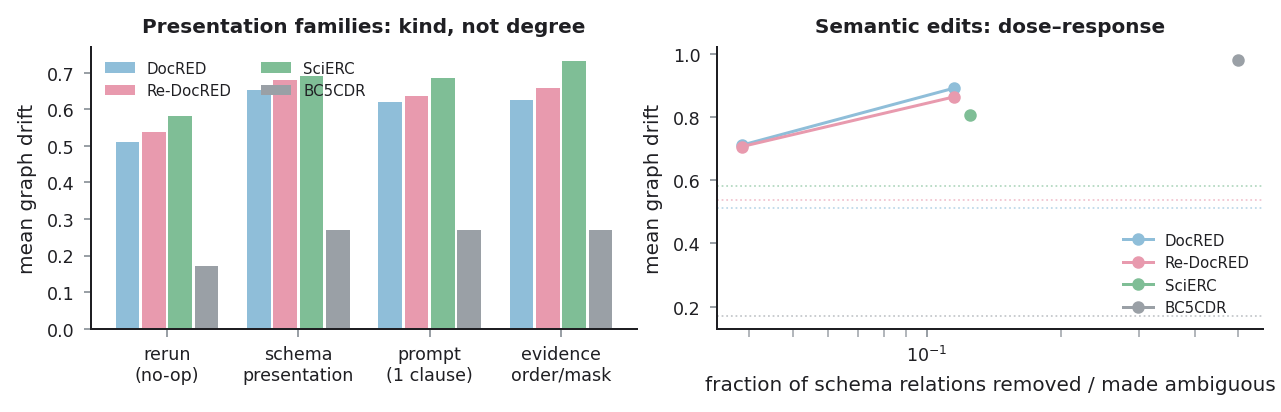
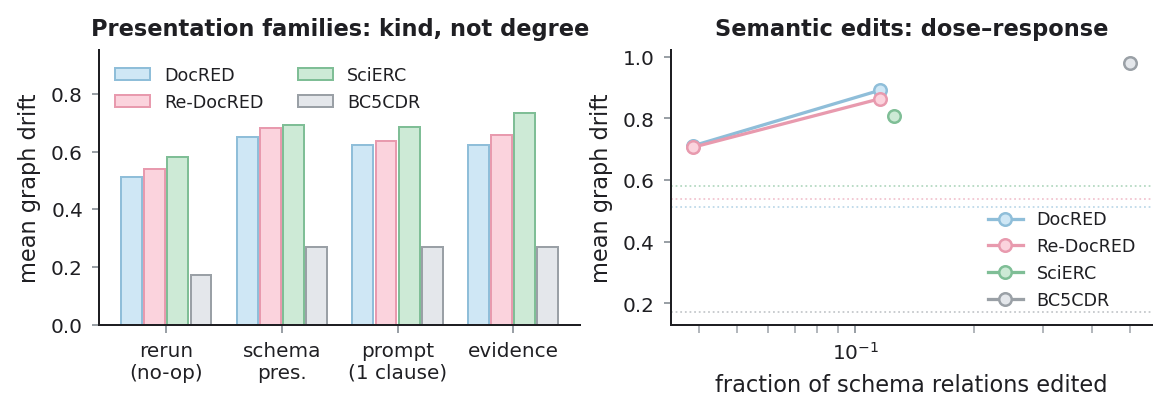
Restyle revision figures to match paper palette; fix overlaps and small fonts

diff --git a/scripts/make_extqueries_figure.py b/scripts/make_extqueries_figure.py
@@ -44,37 +44,39 @@ def main() -> int:
     labels = [l for _, l in RUNS]
     x = np.arange(len(labels))
 
-    _S.apply_rc(font_size=8)
-    fig, (ax1, ax2) = plt.subplots(2, 1, figsize=(3.4, 3.4),
-                                   gridspec_kw={"hspace": 0.52})
+    _S.apply_rc(font_size=9)
+    fig, (ax1, ax2) = plt.subplots(2, 1, figsize=(3.6, 3.6),
+                                   gridspec_kw={"hspace": 0.55})
 
     # ---- (a) amplification ------------------------------------------------
     w = 0.26
-    specs = [("Q_path", r"$Q_5$ path", _S.BLUE_DARK),
-             ("Q_deg", r"$Q_6$ agg", _S.PINK_DARK),
-             ("Q_rag", r"$Q_7$ RAG", _S.GREEN_DARK)]
-    for i, (key, lab, color) in enumerate(specs):
+    specs = [("Q_path", r"$Q_5$ path", _S.BLUE, _S.BLUE_DARK),
+             ("Q_deg", r"$Q_6$ agg", _S.PINK, _S.PINK_DARK),
+             ("Q_rag", r"$Q_7$ RAG", _S.GREEN, _S.GREEN_DARK)]
+    for i, (key, lab, fill, color) in enumerate(specs):
         vals = [ext[l][key]["amp_mean"] for l in labels]
-        bars = ax1.bar(x + (i - 1) * w, vals, width=w * 0.92, color=color, label=lab)
+        bars = ax1.bar(x + (i - 1) * w, vals, width=w * 0.92, color=fill,
+                       edgecolor=color, linewidth=0.8, label=lab)
         if key == "Q_path":
             err = np.array([[ext[l][key]["amp_mean"] - ext[l][key]["amp_ci_lo"],
                              ext[l][key]["amp_ci_hi"] - ext[l][key]["amp_mean"]]
                             for l in labels]).T
             ax1.errorbar(x + (i - 1) * w, vals, yerr=err, fmt="none",
                          ecolor=_S.BLACK, elinewidth=0.7, capsize=1.5)
-        _S.annotate_bars(ax1, bars, vals, fmt="{:.2f}", fontsize=5.5)
+        _S.annotate_bars(ax1, bars, vals, fmt="{:.2f}", fontsize=6)
     ax1.axhline(1.0, color=_S.GRAY, linestyle="--", linewidth=0.8)
     ax1.set_xticks(x); ax1.set_xticklabels(labels)
     ax1.set_ylabel(r"$\overline{\mathrm{Amp}}(Q)$")
     ax1.set_ylim(0, 1.55)
-    ax1.legend(fontsize=6, ncol=3, frameon=False, loc="upper left",
+    ax1.legend(fontsize=7, ncol=3, frameon=False, loc="upper left",
                handlelength=1.0, columnspacing=0.9)
-    ax1.set_title("(a) Extended-template amplification", fontsize=8)
+    ax1.set_title("(a) Extended-template amplification", fontsize=9, fontweight="bold")
     _S.despine(ax1)
 
     # ---- (b) regime dumbbells --------------------------------------------
     off = {"local": -0.16, "multihop": 0.16}
     color = {"local": _S.BLUE_DARK, "multihop": _S.PINK_DARK}
+    fill = {"local": _S.BLUE, "multihop": _S.PINK}
     for regime in ("local", "multihop"):
         gx, gy, qy = [], [], []
         for i, l in enumerate(labels):
@@ -84,17 +86,18 @@ def main() -> int:
             qy.append(s["query_aware"]["f1"])
         for xi, g, q in zip(gx, gy, qy):
             ax2.plot([xi, xi], [g, q], color=color[regime], linewidth=1.1, zorder=1)
-        ax2.scatter(gx, gy, s=14, facecolor="white", edgecolor=color[regime],
-                    linewidth=1.1, zorder=2,
+        ax2.scatter(gx, gy, s=18, facecolor="white", edgecolor=color[regime],
+                    linewidth=1.2, zorder=2,
                     label=f"{'local' if regime=='local' else 'multi-hop'}: graph-only")
-        ax2.scatter(gx, qy, s=16, color=color[regime], zorder=3,
+        ax2.scatter(gx, qy, s=22, facecolor=fill[regime], edgecolor=color[regime],
+                    linewidth=1.2, zorder=3,
                     label=f"{'local' if regime=='local' else 'multi-hop'}: query-aware")
     ax2.set_xticks(x); ax2.set_xticklabels(labels)
     ax2.set_ylabel("detector F1")
-    ax2.set_ylim(0.5, 1.02)
-    ax2.legend(fontsize=5.6, ncol=2, frameon=False, loc="lower left",
+    ax2.set_ylim(0.46, 1.02)
+    ax2.legend(fontsize=6.5, ncol=2, frameon=False, loc="lower right",
                handletextpad=0.3, columnspacing=0.8)
-    ax2.set_title("(b) Workload-visible harm: graph-only vs. query-aware", fontsize=8)
+    ax2.set_title("(b) Workload-visible harm: graph-only vs. query-aware", fontsize=9, fontweight="bold")
     _S.despine(ax2)
 
     out = ROOT / "assets" / "figures" / "fig_extqueries.png"

diff --git a/scripts/run_magnitude_analysis.py b/scripts/run_magnitude_analysis.py
@@ -352,6 +352,7 @@ def make_figure(runs: list[str]) -> None:
 
     label = {"docred": "DocRED", "redocred": "Re-DocRED",
              "scierc": "SciERC", "cdr": "BC5CDR"}
+    fills = [_S.BLUE, _S.PINK, _S.GREEN, _S.GRAY_LIGHT]
     colors = [_S.BLUE_DARK, _S.PINK_DARK, _S.GREEN_DARK, _S.GRAY]
 
     data = {}
@@ -362,8 +363,8 @@ def make_figure(runs: list[str]) -> None:
     if not data:
         return
 
-    _S.apply_rc(font_size=8)
-    fig, axes = plt.subplots(1, 2, figsize=(7.0, 2.2))
+    _S.apply_rc(font_size=9)
+    fig, axes = plt.subplots(1, 2, figsize=(6.4, 2.25))
 
     # -- Panel A: presentation-level saturation (kind, not degree) ----------
     ax = axes[0]
@@ -384,12 +385,14 @@ def make_figure(runs: list[str]) -> None:
         vals = [cat_mean(d, c) for c in cats]
         xs = [j + i * w for j in range(len(cats))]
         ax.bar(xs, [v or 0 for v in vals], width=w * 0.9,
-               color=colors[i % len(colors)], label=label.get(corpus, corpus))
+               color=fills[i % len(fills)], edgecolor=colors[i % len(colors)],
+               linewidth=0.8, label=label.get(corpus, corpus))
     ax.set_xticks([j + w * (len(data) - 1) / 2 for j in range(len(cats))])
-    ax.set_xticklabels(["rerun\n(no-op)", "schema\npresentation", "prompt\n(1 clause)", "evidence\norder/mask"])
-    ax.set_ylabel("mean graph drift")
-    ax.set_title("Presentation families: kind, not degree", fontsize=8)
-    ax.legend(fontsize=6, ncol=2, frameon=False)
+    ax.set_xticklabels(["rerun\n(no-op)", "schema\npres.", "prompt\n(1 clause)", "evidence"])
+    ax.set_ylabel("mean graph drift", fontsize=9)
+    ax.set_title("Presentation families: kind, not degree", fontsize=9, fontweight="bold")
+    ax.set_ylim(0, 0.95)
+    ax.legend(fontsize=7, ncol=2, frameon=False, loc="upper left")
     _S.despine(ax)
 
     # -- Panel B: semantic dose-response (removal-type edits only) ----------
@@ -412,7 +415,8 @@ def make_figure(runs: list[str]) -> None:
         pts.sort()
         if pts:
             ax.plot([x for x, _, _ in pts], [y for _, y, _ in pts], "o-",
-                    color=colors[i % len(colors)], markersize=4, linewidth=1.2,
+                    color=colors[i % len(colors)], markerfacecolor=fills[i % len(fills)],
+                    markeredgecolor=colors[i % len(colors)], markersize=5, linewidth=1.3,
                     label=label.get(corpus, corpus))
         noop = (d["summary"].get("stochastic") or {}).get("mean_drift")
         if noop is not None:
@@ -421,10 +425,10 @@ def make_figure(runs: list[str]) -> None:
     # BC5CDR's single point (x=1.0) is "drop the only CID relation";
     # explained in the figure caption rather than an in-axes annotation.
     ax.set_xscale("log")
-    ax.set_xlabel("fraction of schema relations removed / made ambiguous")
-    ax.set_ylabel("mean graph drift")
-    ax.set_title("Semantic edits: dose–response", fontsize=8)
-    ax.legend(fontsize=6, frameon=False, loc="lower right")
+    ax.set_xlabel("fraction of schema relations edited", fontsize=9)
+    ax.set_ylabel("mean graph drift", fontsize=9)
+    ax.set_title("Semantic edits: dose–response", fontsize=9, fontweight="bold")
+    ax.legend(fontsize=7, frameon=False, loc="lower right")
     _S.despine(ax)
 
     out = ROOT / "assets" / "figures" / "fig_magnitude.png"

diff --git a/scripts/make_gate_figure.py b/scripts/make_gate_figure.py
@@ -40,7 +40,8 @@ UTIL = {
     "Graph-only":  [(0.95, 0.93, 0.97), (0.96, 0.96, 0.97), (0.91, 0.87, 0.95), (0.91, 0.88, 0.94)],
     "GraphGuard":  [(0.99, 0.99, 1.00), (1.00, 1.00, 1.00), (0.99, 0.98, 1.00), (0.97, 0.96, 0.98)],
 }
-COLORS = {"Publish-all": _S.GRAY, "Graph-only": _S.BLUE_DARK, "GraphGuard": _S.PINK_DARK}
+FILLS  = {"Publish-all": _S.GRAY_LIGHT, "Graph-only": _S.BLUE, "GraphGuard": _S.PINK}
+EDGES  = {"Publish-all": _S.GRAY, "Graph-only": _S.BLUE_DARK, "GraphGuard": _S.PINK_DARK}
 
 
 def panel(ax, data, ylabel, ylim, annotate=True):
@@ -49,12 +50,15 @@ def panel(ax, data, ylabel, ylim, annotate=True):
     for i, pol in enumerate(POLICIES):
         vals = [v[0] for v in data[pol]]
         err = np.array([[v[0] - v[1], v[2] - v[0]] for v in data[pol]]).T
-        bars = ax.bar(x + (i - 1) * w, vals, width=w * 0.9,
-                      color=COLORS[pol], label=pol)
+        bars = ax.bar(x + (i - 1) * w, vals, width=w * 0.9, color=FILLS[pol],
+                      edgecolor=EDGES[pol], linewidth=0.8, label=pol)
         ax.errorbar(x + (i - 1) * w, vals, yerr=err, fmt="none",
-                    ecolor=_S.BLACK, elinewidth=0.7, capsize=1.5)
+                    ecolor=EDGES[pol], elinewidth=0.8, capsize=1.5)
         if annotate:
-            _S.annotate_bars(ax, bars, vals, fmt="{:.2f}", fontsize=5.3)
+            # place value labels just above the CI whisker top to avoid overlap
+            for xi, v, hi in zip(x + (i - 1) * w, vals, (d[2] for d in data[pol])):
+                ax.text(xi, hi + 0.012, f"{v:.2f}", ha="center", va="bottom",
+                        fontsize=6, color=_S.BLACK)
     ax.set_xticks(x)
     ax.set_xticklabels(CORPORA)
     ax.set_ylabel(ylabel)
@@ -63,16 +67,16 @@ def panel(ax, data, ylabel, ylim, annotate=True):
 
 
 def main() -> int:
-    _S.apply_rc(font_size=8)
-    fig, (ax1, ax2) = plt.subplots(2, 1, figsize=(3.4, 3.3),
-                                   gridspec_kw={"hspace": 0.42})
-    panel(ax1, HARM, "published-harm rate", (0, 0.42))
-    ax1.legend(fontsize=6, ncol=3, frameon=False, loc="upper right",
+    _S.apply_rc(font_size=9)
+    fig, (ax1, ax2) = plt.subplots(2, 1, figsize=(3.6, 3.5),
+                                   gridspec_kw={"hspace": 0.46})
+    panel(ax1, HARM, "published-harm rate", (0, 0.50))
+    ax1.legend(fontsize=7, ncol=3, frameon=False, loc="upper left",
                handlelength=1.0, columnspacing=0.8)
-    ax1.set_title("(a) Harm among published graphs", fontsize=8)
+    ax1.set_title("(a) Harm among published graphs", fontsize=9, fontweight="bold")
     panel(ax2, UTIL, "retained utility", (0.75, 1.06), annotate=False)
     ax2.axhline(1.0, color=_S.GRAY, linestyle=":", linewidth=0.7)
-    ax2.set_title("(b) Retained utility", fontsize=8)
+    ax2.set_title("(b) Retained utility", fontsize=9, fontweight="bold")
 
     out = ROOT / "assets" / "figures" / "fig_gate.png"
     _S.save_fig(fig, out)
